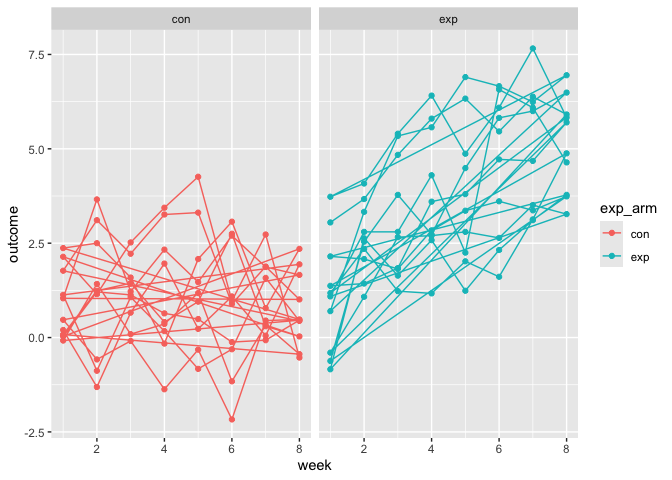
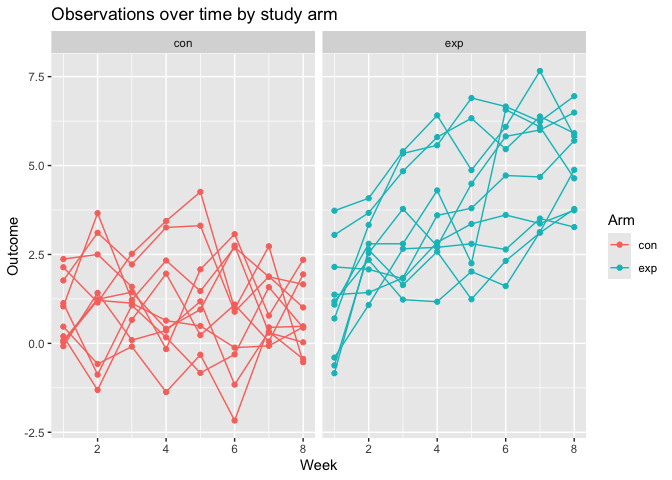
problem 2 visualization complete and analysis

diff --git a/p8105_hw5_di2251.md b/p8105_hw5_di2251.md
@@ -70,6 +70,8 @@ head(results)
 
 ### Problem 2
 
+Read in files:
+
 ``` r
 csv_data = 
   tibble(
@@ -77,8 +79,10 @@ csv_data =
     path = str_c("data/data/", files)
   ) |>
   mutate(data = map(path, read_csv)) |>
-  unnest()
+  unnest(data)
 ```
+
+Tidy data:
 
 ``` r
 data_tidy =
@@ -95,17 +99,36 @@ data_tidy =
     names_prefix = "week_"
   ) |>
   mutate(week = as.numeric(week)) |>
-  select(exp_arm, sub_ID, week, outcome)
+  select(exp_arm, sub_ID, subject = files, week, outcome)
 ```
+
+Create spaghetti plot:
 
 ``` r
 data_tidy |>
-  ggplot(aes(x = week, y = outcome, group = exp_arm, color = exp_arm)) +
+  ggplot(aes(x = week, y = outcome, group = subject, color = exp_arm)) +
   geom_point() +
   geom_path() +
-  facet_grid(~exp_arm)
+  facet_grid(~exp_arm) +
+  labs(
+    title = "Observations over time by study arm",
+    x = "Week",
+    y = "Outcome",
+    color = "Arm"
+  )
 ```
 
 ![](p8105_hw5_di2251_files/figure-gfm/unnamed-chunk-7-1.png)<!-- -->
+This plot demonstrates a clear difference between the two arms in how
+outcomes change over time. In the control arm, outcomes show no
+consistent trend. Most subjects fluctuate between about -1 and 4 across
+the 8 weeks, and the weekly movement appears random rather than in any
+discernible pattern. Lines cross frequently, so there is little evidence
+that subjects stay consistently above or below average. Subjects in the
+experiential arm, display a steady, roughly linear increase. Most start
+between about -1 and 3.5 at week 1 and end between about 3 and 7 at week
+8. the experimental arm also spreads out over time, with more
+variability between subjects at later weeks, suggesting that individuals
+respond at different rates.
 
 ### Problem 3
